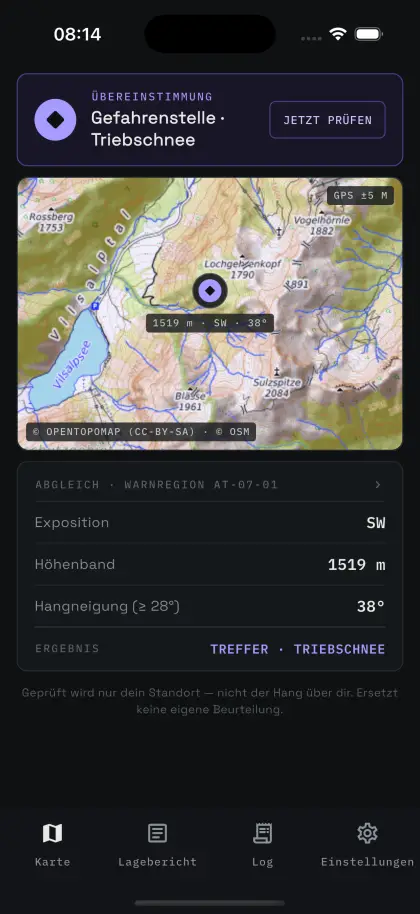
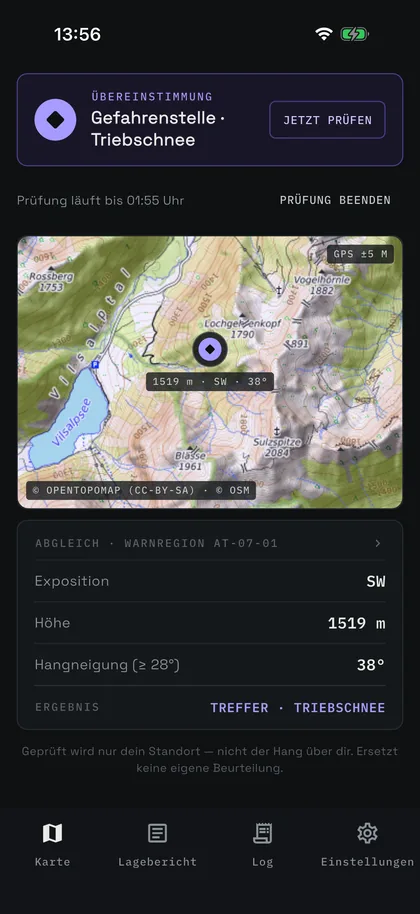
App-Screenshots auf Stand Build 7, Entwarnung raus, Simulator-Hinweis (Master b9aec42)

diff --git a/index.html b/index.html
@@ -439,7 +439,7 @@ footer [data-hk-attr-val]{display:block;padding-left:12px;border-left:1px solid 
           <path d="M 1010,710 A 70 70 0 0 0 1001,675" stroke="rgba(255,255,255,0.9)" stroke-width="2" fill="none"></path>
         </svg>
         <div data-hk-layer="band-chip" style="position:absolute;inset:0;pointer-events:none;z-index:6;animation:hkLayer 0.8s both;animation-timeline:view();animation-range:cover 16% cover 27%;">
-          <div style="position:absolute;left:calc(2% + min(22%,240px) + 54px);top:47%;transform:translate(0,-50%);display:flex;align-items:center;gap:8px;background:rgba(9,20,38,0.55);backdrop-filter:blur(10px);border:1px solid rgba(255,255,255,0.28);border-radius:99px;padding:6px 13px;font-family:'IBM Plex Mono',monospace;font-size:clamp(11px,1.1vw,12.5px);letter-spacing:0.1em;color:#FFFFFF;white-space:nowrap;">HÖHENBAND · 1.681&#8239;M</div>
+          <div style="position:absolute;left:calc(2% + min(22%,240px) + 54px);top:47%;transform:translate(0,-50%);display:flex;align-items:center;gap:8px;background:rgba(9,20,38,0.55);backdrop-filter:blur(10px);border:1px solid rgba(255,255,255,0.28);border-radius:99px;padding:6px 13px;font-family:'IBM Plex Mono',monospace;font-size:clamp(11px,1.1vw,12.5px);letter-spacing:0.1em;color:#FFFFFF;white-space:nowrap;">HÖHE · 1.681&#8239;M</div>
         </div>
         <div data-hk-layer="expo-chip" style="position:absolute;inset:0;pointer-events:none;z-index:3;animation:hkLayer 0.8s both;animation-timeline:view();animation-range:cover 5% cover 16%;">
           <div style="position:absolute;left:71%;top:16%;transform:translate(-50%,-50%);display:flex;align-items:center;gap:8px;background:rgba(9,20,38,0.55);backdrop-filter:blur(10px);border:1px solid rgba(255,255,255,0.28);border-radius:99px;padding:6px 13px;font-family:'IBM Plex Mono',monospace;font-size:clamp(11px,1.1vw,12.5px);letter-spacing:0.1em;color:#FFFFFF;white-space:nowrap;"><svg width="11" height="11" viewBox="0 0 12 12" aria-hidden="true"><path d="M9 3 L3 9 M3 9 L3 5.4 M3 9 L6.6 9" stroke="#FFFFFF" stroke-width="1.6" fill="none" stroke-linecap="round"></path></svg>EXPOSITION · SW</div>
@@ -457,7 +457,7 @@ footer [data-hk-attr-val]{display:block;padding-left:12px;border-left:1px solid 
         <circle cx="918" cy="703" r="3.5" fill="rgba(255,255,255,0.8)"></circle>
       </svg>
       <div data-hk-phone style="position:absolute;left:2%;bottom:-9%;width:min(22%,240px);min-width:126px;z-index:5;background:#0B0D12;border-radius:30px;padding:8px;box-shadow:0 14px 28px -16px rgba(9,20,38,0.35),0 0 0 1px rgba(255,255,255,0.10) inset;opacity:0;transform:translateY(24px) scale(0.985);transition:opacity 200ms linear,transform 480ms cubic-bezier(0.22,0.61,0.36,1);">
-        <img src="img/sperrbildschirm.webp" alt="Echter Sperrbildschirm: Übereinstimmung mit denselben Werten — Höhenband 1.681 m, Exposition SW, Hangneigung 30°" loading="lazy" width="1206" height="2622" style="width:100%;height:auto;display:block;border-radius:23px;">
+        <img src="img/sperrbildschirm.webp" alt="Sperrbildschirm (Simulator, Beispiel-Lagebericht): Übereinstimmung mit denselben Werten — Höhe 1.681 m, Exposition SW, Hangneigung 30°" loading="lazy" width="1206" height="2622" style="width:100%;height:auto;display:block;border-radius:23px;">
       </div>
     </div>
     <p style="margin:clamp(56px,7vw,92px) 0 0;text-align:center;font-size:clamp(22px,3.2vw,36px);font-weight:800;letter-spacing:-0.02em;text-wrap:balance;animation:hkReveal 0.8s both;animation-timeline:view();animation-range:entry 0% entry 60%;">Ein Hang. Drei Kriterien. Ein Abgleich.</p>
@@ -490,13 +490,13 @@ footer [data-hk-attr-val]{display:block;padding-left:12px;border-left:1px solid 
       <img src="img/terrain-base-mobile.webp" alt="Alpiner Hang mit den drei geprüften Kriterien: Exposition, Höhenband und Hangneigung" loading="lazy" style="width:100%;display:block;aspect-ratio:4/5;object-fit:cover;object-position:64% 30%;">
       <div style="position:absolute;left:12px;top:12px;display:flex;flex-direction:column;gap:9px;align-items:flex-start;">
         <div style="display:flex;align-items:center;gap:8px;background:rgba(9,20,38,0.6);backdrop-filter:blur(10px);border:1px solid rgba(255,255,255,0.28);border-radius:99px;padding:8px 14px;font-family:'IBM Plex Mono',monospace;font-size:12px;letter-spacing:0.08em;color:#FFFFFF;white-space:nowrap;"><svg width="11" height="11" viewBox="0 0 12 12" aria-hidden="true"><path d="M9 3 L3 9 M3 9 L3 5.4 M3 9 L6.6 9" stroke="#FFFFFF" stroke-width="1.6" fill="none" stroke-linecap="round"></path></svg>EXPOSITION · SW</div>
-        <div style="display:flex;align-items:center;gap:8px;background:rgba(9,20,38,0.6);backdrop-filter:blur(10px);border:1px solid rgba(255,255,255,0.28);border-radius:99px;padding:8px 14px;font-family:'IBM Plex Mono',monospace;font-size:12px;letter-spacing:0.08em;color:#FFFFFF;white-space:nowrap;">HÖHENBAND · 1.681&#8239;M</div>
+        <div style="display:flex;align-items:center;gap:8px;background:rgba(9,20,38,0.6);backdrop-filter:blur(10px);border:1px solid rgba(255,255,255,0.28);border-radius:99px;padding:8px 14px;font-family:'IBM Plex Mono',monospace;font-size:12px;letter-spacing:0.08em;color:#FFFFFF;white-space:nowrap;">HÖHE · 1.681&#8239;M</div>
         <div style="display:flex;align-items:center;gap:8px;background:rgba(9,20,38,0.6);backdrop-filter:blur(10px);border:1px solid rgba(255,255,255,0.28);border-radius:99px;padding:8px 14px;font-family:'IBM Plex Mono',monospace;font-size:12px;letter-spacing:0.08em;color:#FFFFFF;white-space:nowrap;">HANGNEIGUNG · 30°</div>
       </div>
       <div style="position:absolute;left:0;right:0;bottom:0;height:46%;background:linear-gradient(180deg,rgba(9,20,38,0) 0%,rgba(9,20,38,0.34) 100%);pointer-events:none;" aria-hidden="true"></div>
     </div>
     <div style="width:min(50%,198px);margin:max(-138px,-31vw) auto 0;position:relative;z-index:2;background:#0B0D12;border-radius:32px;padding:8px;box-shadow:0 24px 54px -22px rgba(9,20,38,0.55),0 0 0 1px rgba(255,255,255,0.10) inset;">
-      <img src="img/sperrbildschirm.webp" alt="Echter Sperrbildschirm: Übereinstimmung mit denselben Werten — Höhenband 1.681 m, Exposition SW, Hangneigung 30°" loading="lazy" width="1206" height="2622" style="width:100%;height:auto;display:block;border-radius:25px;">
+      <img src="img/sperrbildschirm.webp" alt="Sperrbildschirm (Simulator, Beispiel-Lagebericht): Übereinstimmung mit denselben Werten — Höhe 1.681 m, Exposition SW, Hangneigung 30°" loading="lazy" width="1206" height="2622" style="width:100%;height:auto;display:block;border-radius:25px;">
     </div>
     <p style="margin:28px 0 0;text-align:center;font-size:clamp(21px,6vw,26px);font-weight:800;letter-spacing:-0.02em;text-wrap:balance;">Ein Hang. Drei Kriterien. Ein Abgleich.</p>
     <div style="display:flex;flex-direction:column;gap:18px;margin-top:24px;">
@@ -530,7 +530,7 @@ footer [data-hk-attr-val]{display:block;padding-left:12px;border-left:1px solid 
       <div style="flex:1 1 340px;min-width:280px;display:flex;flex-direction:column;gap:12px;">
         <div data-z="keine" hidden>
           <h3 style="margin:0 0 12px;font-size:clamp(20px,2.4vw,26px);font-weight:800;letter-spacing:-0.015em;">Keine Übereinstimmung</h3>
-          <p style="margin:0;font-size:15.5px;line-height:1.65;color:#4A5A6B;text-wrap:pretty;max-width:520px;">Dein Standort entspricht keiner Gefahrenstelle des aktuellen Lageberichts. Die Prüfung läuft weiter, bis du sie beendest oder 12 Stunden um sind. Keine Übereinstimmung bedeutet niemals Entwarnung.</p>
+          <p style="margin:0;font-size:15.5px;line-height:1.65;color:#4A5A6B;text-wrap:pretty;max-width:520px;">Dein Standort entspricht keiner Gefahrenstelle des aktuellen Lageberichts. Die Prüfung läuft weiter, bis du sie beendest oder 12 Stunden um sind. Keine Übereinstimmung heißt nicht: keine Gefahr.</p>
         </div>
         <div data-z="treffer">
           <h3 style="margin:0 0 12px;font-size:clamp(20px,2.4vw,26px);font-weight:800;letter-spacing:-0.015em;">Dein Standort entspricht einer Gefahrenstelle.</h3>
@@ -590,6 +590,9 @@ footer [data-hk-attr-val]{display:block;padding-left:12px;border-left:1px solid 
     <div style="display:grid;grid-template-columns:repeat(auto-fit,minmax(290px,1fr));gap:14px;margin-top:14px;">
       <div style="background:#FFFFFF;border:1px solid #DDE6EF;border-radius:20px;padding:16px 18px;display:flex;gap:14px;align-items:center;flex-wrap:wrap;">
         <div class="hk-zoom-sm" data-lb="watch" role="button" tabindex="0" aria-label="Watch-Mockup vergrößern" style="width:78px;background:#05090F;border-radius:22px;padding:5px;flex-shrink:0;cursor:zoom-in;transition:transform 0.25s ease;">
+          <!-- watch.png: Simulator-Aufnahme 19.11.2026 (Build 7); das rote
+               Statussymbol „iPhone getrennt“ der Watch-Statusleiste ist
+               übermalt, sonst unverändert. -->
           <img src="img/watch.png" alt="Apple-Watch-Komplikation: Zustand am Handgelenk" loading="lazy" style="width:100%;display:block;border-radius:20px;">
         </div>
         <div style="flex:1 1 170px;display:flex;flex-direction:column;gap:7px;">
@@ -624,13 +627,14 @@ footer [data-hk-attr-val]{display:block;padding-left:12px;border-left:1px solid 
     <div style="position:absolute;inset:0;background:linear-gradient(180deg,rgba(15,36,52,0.12) 0%,rgba(15,36,52,0.02) 55%,rgba(18,42,60,0.3) 100%);pointer-events:none;" aria-hidden="true"></div>
   </div>
   <div data-lb="lock" role="button" tabindex="0" aria-label="Sperrbildschirm-Mockup vergrößern" style="margin-top:12px;background:#05090F;border-radius:20px;padding:7px;box-shadow:0 20px 46px -22px rgba(4,14,24,0.55);cursor:zoom-in;">
-    <!-- Ausschnitt (26.07., am Simulator gemessen): das Fenster zeigt genau die
-         Live Activity samt schmalem Rand — Originalbild-Zeilen 1612–1890 von
-         2622. Daraus aspect-ratio 1206/278 und object-position 1612/2344.
+    <!-- Ausschnitt (am Simulator gemessen, neu am 19.11.2026 für Build 7):
+         das Fenster zeigt genau die Live Activity samt schmalem Rand —
+         Originalbild-Zeilen 1528–1806 von 2622. Daraus aspect-ratio 1206/278
+         und object-position 1528/2344.
          Der v5.8.1-Entwurf hatte 2.7/1 · 70 %, dabei ragte die halbe zweite
          Mitteilung ins Bild und sah nach abgeschnittenem Bild aus. -->
     <div style="border-radius:14px;overflow:hidden;aspect-ratio:4.34/1;">
-      <img src="img/sperrbildschirm.webp" alt="Live Activity auf dem Sperrbildschirm: Übereinstimmung, Triebschnee, 30° SW, 1.681 m, Gefahrenstufe 2 — tippen für den vollständigen Sperrbildschirm" loading="lazy" style="width:100%;height:100%;display:block;object-fit:cover;object-position:center 68.8%;">
+      <img src="img/sperrbildschirm.webp" alt="Live Activity auf dem Sperrbildschirm: Übereinstimmung, Triebschnee, 30° SW, 1.681 m, Gefahrenstufe 2 — tippen für den vollständigen Sperrbildschirm" loading="lazy" style="width:100%;height:100%;display:block;object-fit:cover;object-position:center 65.2%;">
     </div>
     <div style="display:flex;align-items:center;justify-content:space-between;gap:10px;padding:9px 8px 4px;font-family:'IBM Plex Mono',monospace;font-size:10px;letter-spacing:0.08em;text-transform:uppercase;color:#9FB8CC;">
       <span>Live Activity · Dynamic Island</span>
@@ -895,9 +899,9 @@ footer [data-hk-attr-val]{display:block;padding-left:12px;border-left:1px solid 
   /* --- KAPITEL 4 · Drei Zustände (Tablist) --- */
   var ZUST = ['keine', 'treffer', 'nicht'];
   var STATUSZEILEN = {
-    keine: 'AKTIV · PRÜFT LAUFEND · LAUFEND NEU BERECHNET',
+    keine: 'PRÜFUNG LÄUFT · KEINE ÜBEREINSTIMMUNG · HÖCHSTENS 12 STUNDEN',
     treffer: 'TREFFER · TRIEBSCHNEE · STUFE 2 · EIGENE BEURTEILUNG NÖTIG',
-    nicht: 'PRÜFUNG EINGESCHRÄNKT · AUSGEGRAUT + ZEITSTEMPEL'
+    nicht: 'PRÜFUNG EINGESCHRÄNKT · KEINE AUSSAGE MÖGLICH · GPS ±80 M'
   };
   /* Am Handy passt die Statuszeile in keine Zeile. Sie soll an den
      Trennpunkten umbrechen, nicht mitten in einer Angabe („… EIGENE /

diff --git a/presse.html b/presse.html
@@ -187,15 +187,17 @@
   <p>Screenshots aus der App (1206&nbsp;×&nbsp;2622&nbsp;px) und das App-Icon.
   Verwendung frei im redaktionellen Zusammenhang, bitte mit Quellenangabe
   „HangKontext". Bei Kartenausschnitten bitte zusätzlich
-  „© OpenTopoMap (CC-BY-SA), © OpenStreetMap" nennen.</p>
+  „© OpenTopoMap (CC-BY-SA), © OpenStreetMap" nennen. Die App-Bilder sind
+  Aufnahmen aus dem iOS-Simulator mit einem Beispiel-Lagebericht (Stand
+  Build 1.0.0+7), nicht aus einem amtlichen Lagebericht.</p>
   <!-- Angezeigt werden 420-px-Vorschauen (zusammen ~150 KB), verlinkt sind
        die Originale in voller Aufloesung. Die PNGs selbst als Vorschau
        einzubinden haette die Seite auf ueber 12 MB gebracht. -->
   <ul class="assets">
-    <li><a href="presse/hangkontext-01-treffer.png" download><img src="presse/vorschau/hangkontext-01-treffer.webp" width="420" height="913" loading="lazy" alt="Startbildschirm der App mit einer gemeldeten Übereinstimmung: Exposition, Höhenband und Hangneigung am Standort passen zu einer Gefahrenstelle des Lageberichts."><span class="name">Übereinstimmung</span><span class="meta">PNG · 1,7 MB</span></a></li>
-    <li><a href="presse/hangkontext-02-keine-uebereinstimmung.png" download><img src="presse/vorschau/hangkontext-02-keine-uebereinstimmung.webp" width="420" height="913" loading="lazy" alt="Startbildschirm der App im Zustand „keine Übereinstimmung“ mit den gemessenen Geländewerten."><span class="name">Keine Übereinstimmung</span><span class="meta">PNG · 1,8 MB</span></a></li>
-    <li><a href="presse/hangkontext-03-karte-overlay.png" download><img src="presse/vorschau/hangkontext-03-karte-overlay.webp" width="420" height="913" loading="lazy" alt="Vollbildkarte mit dem violetten Gefahrenstellen-Overlay; grau schraffierte Flächen kennzeichnen fehlende Datengrundlage."><span class="name">Karte mit Overlay</span><span class="meta">PNG · 5,1 MB</span></a></li>
-    <li><a href="presse/hangkontext-04-sperrbildschirm.png" download><img src="presse/vorschau/hangkontext-04-sperrbildschirm.webp" width="420" height="913" loading="lazy" alt="Sperrbildschirm des iPhones mit der Meldung einer Übereinstimmung samt Höhenband, Exposition und Hangneigung."><span class="name">Sperrbildschirm</span><span class="meta">PNG · 2,5 MB</span></a></li>
+    <li><a href="presse/hangkontext-01-treffer.png" download><img src="presse/vorschau/hangkontext-01-treffer.webp" width="420" height="913" loading="lazy" alt="Startbildschirm der App mit einer gemeldeten Übereinstimmung: Exposition, Höhenband und Hangneigung am Standort passen zu einer Gefahrenstelle des Lageberichts."><span class="name">Übereinstimmung</span><span class="meta">PNG · 1,3 MB</span></a></li>
+    <li><a href="presse/hangkontext-02-keine-uebereinstimmung.png" download><img src="presse/vorschau/hangkontext-02-keine-uebereinstimmung.webp" width="420" height="913" loading="lazy" alt="Startbildschirm der App im Zustand „keine Übereinstimmung“ mit den gemessenen Geländewerten."><span class="name">Keine Übereinstimmung</span><span class="meta">PNG · 1,3 MB</span></a></li>
+    <li><a href="presse/hangkontext-03-karte-overlay.png" download><img src="presse/vorschau/hangkontext-03-karte-overlay.webp" width="420" height="913" loading="lazy" alt="Vollbildkarte mit dem violetten Gefahrenstellen-Overlay: markiert ist Gelände, das zu einer Gefahrenstelle des Lageberichts passt."><span class="name">Karte mit Overlay</span><span class="meta">PNG · 3,4 MB</span></a></li>
+    <li><a href="presse/hangkontext-04-sperrbildschirm.png" download><img src="presse/vorschau/hangkontext-04-sperrbildschirm.webp" width="420" height="913" loading="lazy" alt="Sperrbildschirm des iPhones mit der Meldung einer Übereinstimmung samt Höhenband, Exposition und Hangneigung."><span class="name">Sperrbildschirm</span><span class="meta">PNG · 2,3 MB</span></a></li>
     <li><a href="presse/hangkontext-app-icon-1024.png" download><img src="presse/vorschau/hangkontext-app-icon-1024.webp" width="420" height="420" loading="lazy" alt="App-Icon von HangKontext."><span class="name">App-Icon</span><span class="meta">PNG · 1024 px</span></a></li>
   </ul>
 
